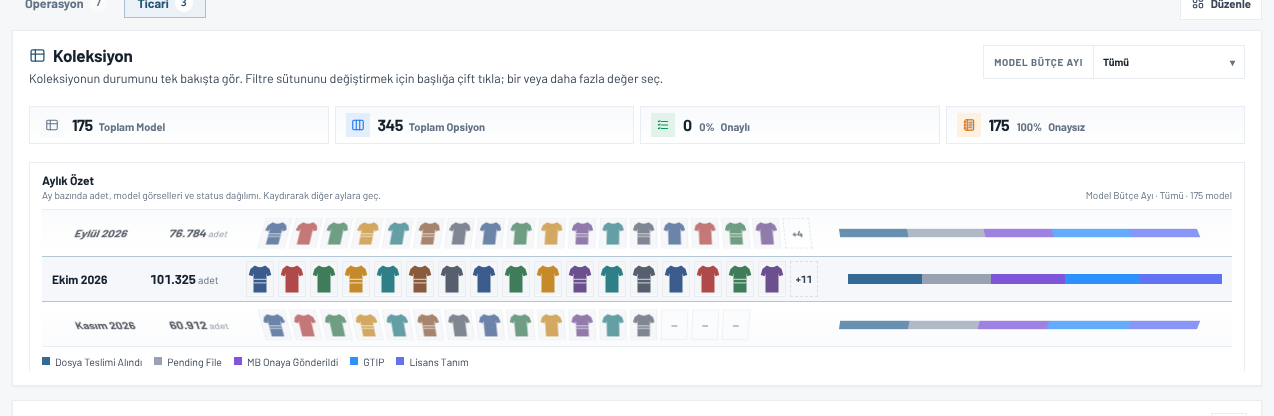
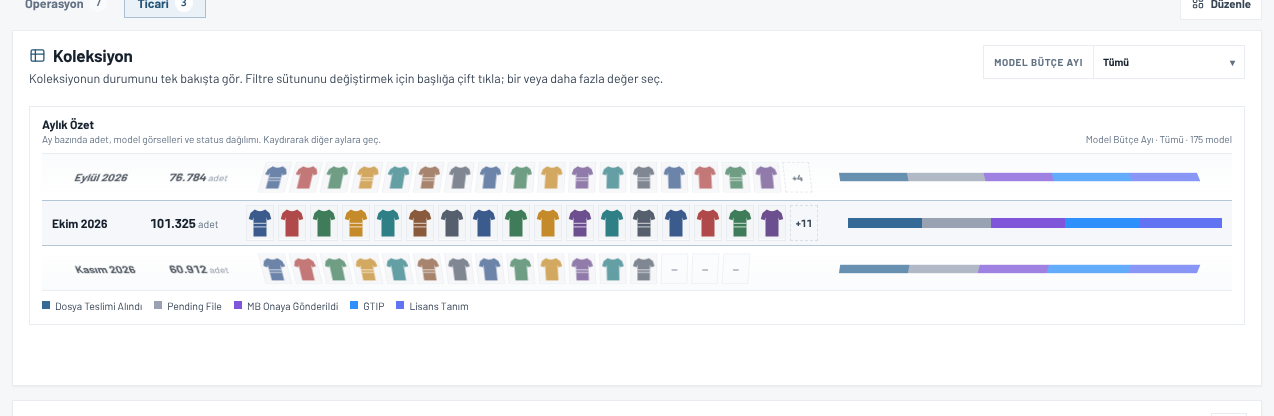
Overview Koleksiyon: aylık revolver üstündeki genel KPI özetini kaldır
Toplam Model / Toplam Opsiyon / Onaylı / Onaysız kartları widget'tan
çıkarıldı; özet alanı doğrudan aylık revolver'ı gösterir. Sürüm notu ve
ekran görüntüsü güncellendi.

Claude-Session: https://claude.ai/code/session_01CpVbLM8pvyK8wbHhbVVCoa

diff --git a/resources/app/public/overview-collection-dashboard.js b/resources/app/public/overview-collection-dashboard.js
@@ -3,7 +3,6 @@
   function esc(value){return String(value==null?'':value).replace(/[&<>"']/g,function(ch){return {'&':'&amp;','<':'&lt;','>':'&gt;','"':'&quot;',"'":'&#39;'}[ch];});}
   function text(value){return String(value==null?'':value).trim();}
   function pct(value,total){return total>0?Math.round((Number(value)||0)*100/total):0;}
-  function icon(id){return '<svg class="ic" aria-hidden="true"><use href="#'+id+'"/></svg>';}
   function columnCatalog(ctx){
     const seen=new Set();
     return (Array.isArray(ctx.columns)?ctx.columns:[]).map(function(column){
@@ -171,17 +170,6 @@
     if(intro)intro.textContent=ctx.language==='en'?'Collection health at a glance. Double-click the filter title to change column; select one or more values.':'Koleksiyonun durumunu tek bakışta gör. Filtre sütununu değiştirmek için başlığa çift tıkla; bir veya daha fazla değer seç.';
     const meta=document.getElementById('ovCollectionSummaryScopeMeta');
     if(meta)meta.textContent=columnLabel+' · '+valueSummary(ctx,scoped)+' · '+total.toLocaleString(locale)+' '+(ctx.language==='en'?'models':'model');
-    const kpi=document.getElementById('ovCollectionSummaryKpi');
-    if(kpi){
-      const items=[
-        {key:'total',label:ctx.language==='en'?'Total Models':'Toplam Model',value:result.kpi.total,icon:'i-table',tone:'neutral'},
-        {key:'optionCount',label:ctx.language==='en'?'Total Options':'Toplam Opsiyon',value:result.kpi.optionCount,icon:'i-columns-3',tone:'blue'},
-        {key:'confirmed',label:ctx.language==='en'?'Confirmed':'Onaylı',value:result.kpi.confirmed,ratio:pct(result.kpi.confirmed,total),icon:'i-checklist',tone:'green'},
-        {key:'notConfirmed',label:ctx.language==='en'?'Not Confirmed':'Onaysız',value:result.kpi.notConfirmed,ratio:pct(result.kpi.notConfirmed,total),icon:'i-notebook',tone:'amber'}
-      ];
-      kpi.innerHTML=items.map(function(item){return '<button type="button" class="ovCollectionKpiCard tone-'+item.tone+'" data-summary-drill="'+item.key+'"><span class="ovCollectionKpiIcon">'+icon(item.icon)+'</span><span class="ovCollectionKpiCopy"><b>'+Number(item.value||0).toLocaleString(locale)+(item.ratio==null?'':' <em>'+item.ratio+'%</em>')+'</b><span>'+esc(item.label)+'</span></span></button>';}).join('');
-      Array.from(kpi.querySelectorAll('[data-summary-drill]')).forEach(function(button){button.addEventListener('click',function(){ctx.drill({scopeColumn:scoped.column.k,scopeValues:scoped.selected,kpi:button.dataset.summaryDrill});});});
-    }
     const order=new Map((ctx.statusCatalog||[]).map(function(entry,index){return [String(entry.name),index];}));
     const rows=(result.rows||[]).slice().sort(function(a,b){const ai=order.has(a.status)?order.get(a.status):9999,bi=order.has(b.status)?order.get(b.status):9999;return ai-bi||String(a.status).localeCompare(String(b.status),'tr-TR',{sensitivity:'base'});});
     /* Renk verilmemiş (varsayılan gri) statüler dağılımda birbirinden ayrılsın:

diff --git a/resources/app/public/app.css b/resources/app/public/app.css
@@ -5809,15 +5809,8 @@ td.plmSampleCell .plmSampleEmpty{color:var(--muted)}
 .ovCollectionMonthLegendItem i{width:8px;height:8px;background:var(--status-color)}
 .ovCollectionMonthLegendItem:hover{color:var(--ink)}
 @container ovw (max-width:560px){.ovCollectionMonthRow{grid-template-columns:minmax(76px,auto) auto minmax(0,1fr) minmax(70px,26%);gap:8px}}
-/* Özet alanı aylık revolver'a yer açsın: KPI'lar tek satır kompakt çip */
+/* Özet alanı aylık revolver'dır (genel KPI özeti kaldırıldı) */
 .ovCollectionSummaryBody{gap:8px;margin-top:8px}
-.ovCollectionSummaryKpi{display:flex!important;flex-wrap:wrap;gap:6px}
-.ovCollectionSummaryKpi .ovCollectionKpiCard{flex:1 1 150px;gap:8px;padding:6px 10px}
-.ovCollectionSummaryKpi .ovCollectionKpiIcon{width:24px;height:24px}
-.ovCollectionSummaryKpi .ovCollectionKpiIcon .ic{width:14px;height:14px}
-.ovCollectionSummaryKpi .ovCollectionKpiCopy{flex-direction:row;align-items:baseline;gap:6px}
-.ovCollectionSummaryKpi .ovCollectionKpiCopy>b{font-size:16px;white-space:nowrap}
-.ovCollectionSummaryKpi .ovCollectionKpiCopy>span{white-space:nowrap;overflow:hidden;text-overflow:ellipsis}
 .ovCollectionSummaryBody>.ovCollectionStatusSection{padding:10px 12px}
 .ovCollectionSummaryBody>.ovCollectionStatusSection>.ovCollectionStatusSectionHead{margin-bottom:8px}
 .ovCollectionMonthLegend{margin-top:6px}

diff --git a/resources/app/tests/overview-collection-summary-v770.test.js b/resources/app/tests/overview-collection-summary-v770.test.js
@@ -45,7 +45,8 @@ test('advanced multi-level pivot remains available only as secondary data view',
 test('Overview Collection widget keeps identity but main surface is visual dashboard, not pivot table',()=>{
   assert.match(INDEX,/id="ovCollectionSummary"/);
   assert.match(INDEX,/data-overview-widget="collectionSummary"/);
-  assert.match(INDEX,/id="ovCollectionSummaryKpi"/);
+  /* v2026-10-07: tablonun (aylık revolver) üstündeki genel KPI özeti kaldırıldı. */
+  assert.doesNotMatch(INDEX,/id="ovCollectionSummaryKpi"/);
   /* v2026-10-07: tek dağılım çubuğu + status kartları yerini aylık revolver
      satırlarına (ay · adet · görseller · status çubuğu) bıraktı. */
   assert.match(INDEX,/id="ovCollectionSummaryMonths"/);
@@ -56,7 +57,7 @@ test('Overview Collection widget keeps identity but main surface is visual dashb
   assert.match(INDEX,/id="ovCollectionSummaryScopePopover"/);
   assert.doesNotMatch(INDEX,/id="ovCollectionSummarySettingsBtn"/);
   assert.doesNotMatch(INDEX,/id="ovCollectionSummaryTable"/);
-  assert.match(DASH,/ovCollectionKpiCard/);
+  assert.doesNotMatch(DASH,/ovCollectionKpiCard/);
   assert.match(DASH,/ovCollectionMonthRow/);
   assert.match(DASH,/scopeColumn/);
   assert.match(DASH,/scopeValues/);

diff --git a/resources/app/public/index.html b/resources/app/public/index.html
@@ -716,7 +716,6 @@
         </div>
       </div>
       <div class="ovCollectionSummaryBody">
-        <div id="ovCollectionSummaryKpi" class="ovCollectionSummaryKpi"></div>
         <div class="ovCollectionStatusSection">
           <div class="ovCollectionStatusSectionHead"><div><b data-i18n-tr="Aylık Özet" data-i18n-en="Monthly Summary">Aylık Özet</b><span data-i18n-tr="Ay bazında adet, model görselleri ve status dağılımı. Kaydırarak diğer aylara geç." data-i18n-en="Quantity, model images and status mix by month. Scroll to move between months.">Ay bazında adet, model görselleri ve status dağılımı. Kaydırarak diğer aylara geç.</span></div><span id="ovCollectionSummaryScopeMeta"></span></div>
           <div id="ovCollectionSummaryMonths" class="ovCollectionRevolver" tabindex="0" role="listbox" aria-label="Collection months" data-i18n-aria-label-tr="Koleksiyon ayları" data-i18n-aria-label-en="Collection months"></div>
